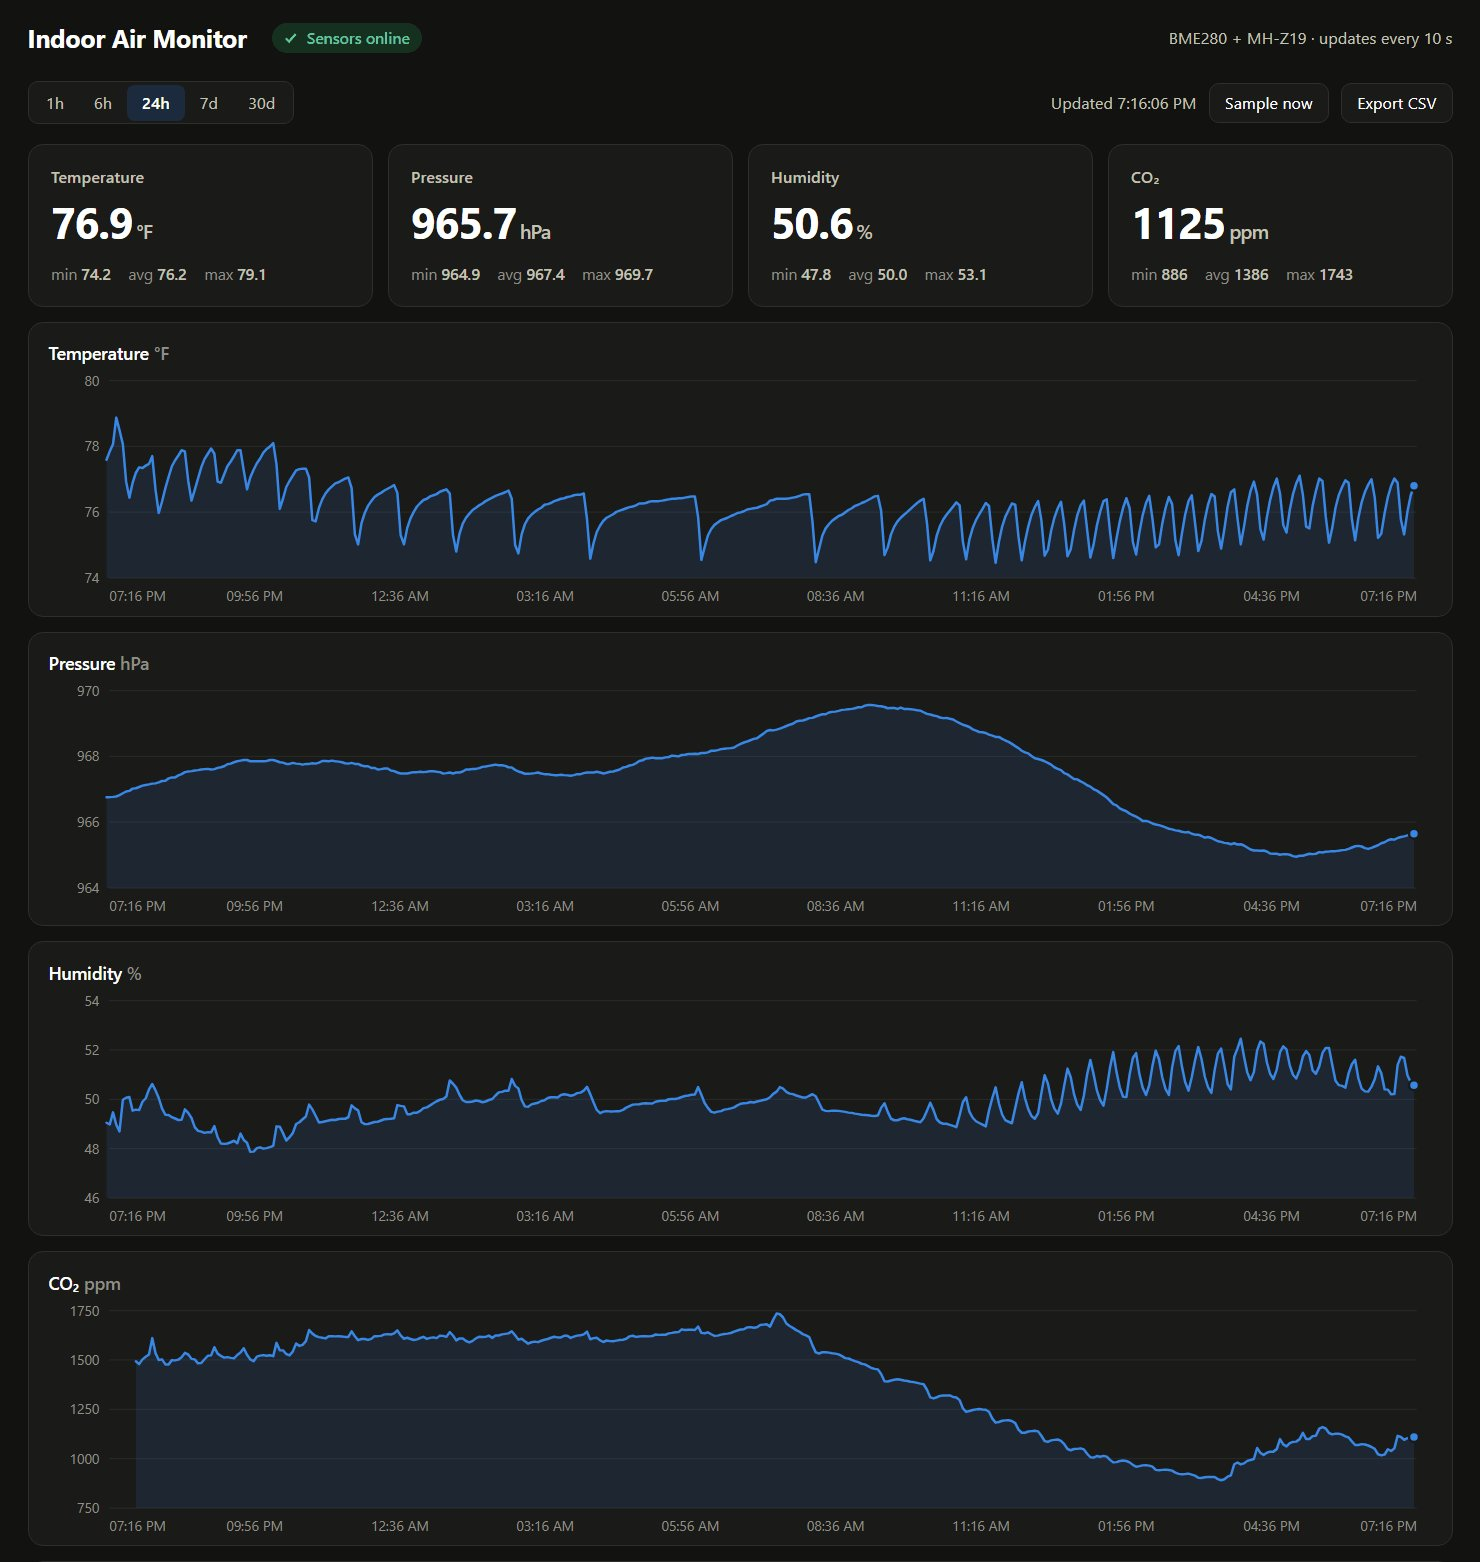
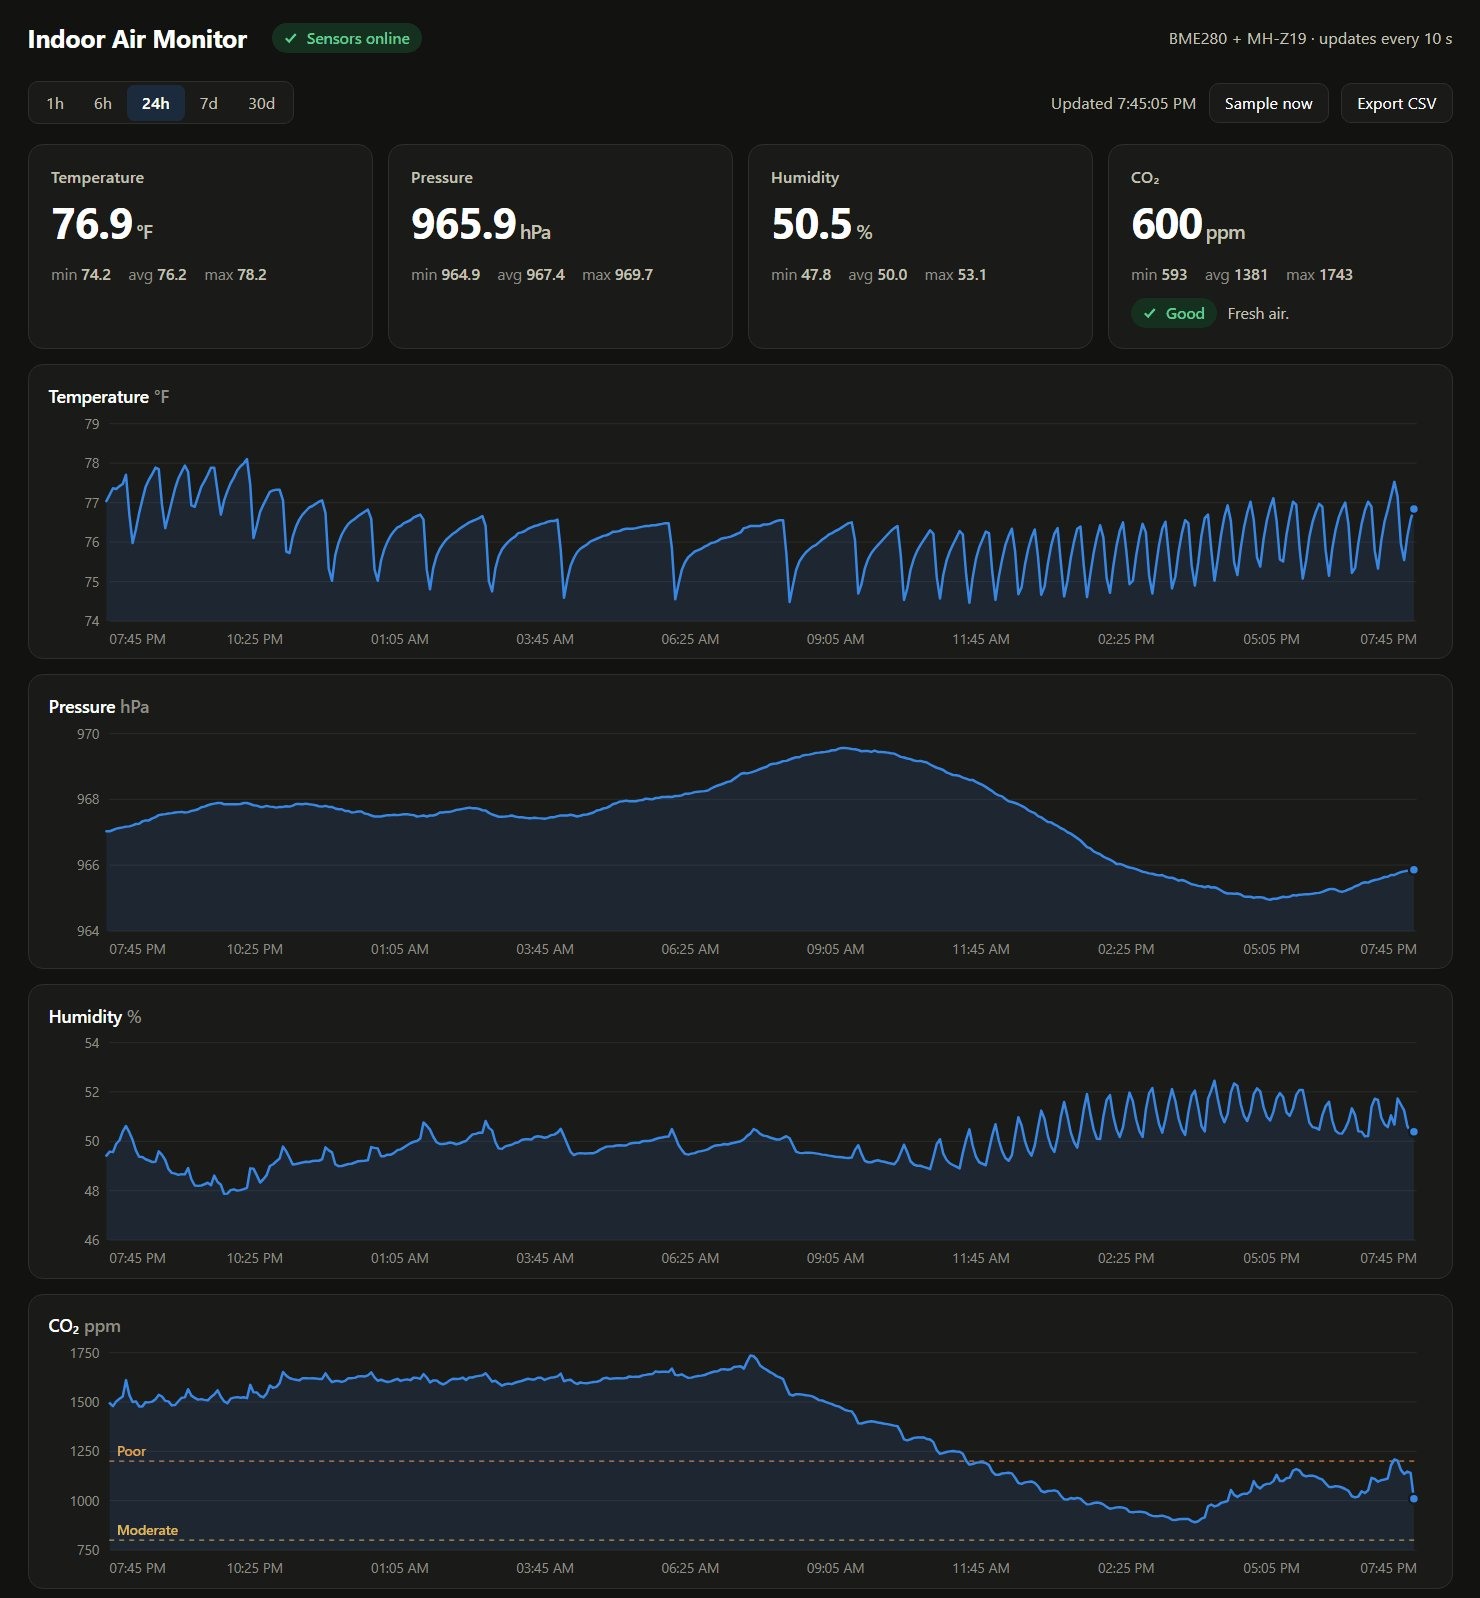
Add CO2 danger alerts to Pi Air Monitor project

diff --git a/index.html b/index.html
@@ -270,7 +270,7 @@
                         <h3>Pi Air Monitor</h3>
                         <p class="case-summary">
                             An indoor air-quality monitor: C drivers read a BME280 over SPI and an MH-Z19 CO₂ sensor over UART,
-                            and a FastAPI service stores the readings in PostgreSQL and serves a live dashboard with history and CSV export.
+                            and a FastAPI service stores the readings in PostgreSQL and serves a live dashboard with CO₂ danger alerts, history and CSV export.
                         </p>
                         <ol class="pipeline">
                             <li>BME280 + MH-Z19</li><li>SPI / UART</li><li>C drivers</li><li>FastAPI</li><li>PostgreSQL</li><li>Dashboard</li>
@@ -290,13 +290,33 @@
                                 <span class="dots"><i></i><i></i><i></i></span>
                                 <span class="browser-url"><i class="bx bx-chip"></i> raspberrypi:8000</span>
                             </div>
-                            <img src="img/air-monitor-dashboard.jpg" alt="Live dashboard charting temperature, pressure, humidity and CO₂ over 24 hours">
+                            <img src="img/air-monitor-dashboard.jpg" alt="Live dashboard charting temperature, pressure, humidity and CO₂ over 24 hours, with CO₂ thresholds marked">
                         </a>
                         <figure class="hw-photo">
                             <img src="img/air-monitor-hardware.jpg" alt="Raspberry Pi 5 wired to a BME280 sensor on a breadboard and an MH-Z19 CO₂ sensor">
                             <figcaption>The actual build</figcaption>
                         </figure>
                     </div>
+                </div>
+
+                <div class="case-feature">
+                    <div class="feature-text">
+                        <p class="project-kicker"><i class="bx bx-error"></i> New · CO₂ danger alerts</p>
+                        <h4>Know when to open a window</h4>
+                        <p>
+                            Every CO₂ reading is placed in one of five bands, from Good to Dangerous, based on published
+                            health guidance up to the OSHA 8-hour exposure limit. The dashboard labels the current band and
+                            draws the thresholds on the chart. At Unhealthy or above it raises a banner with advice and logs a warning.
+                        </p>
+                        <ol class="levels">
+                            <li class="lv-good">Good</li><li class="lv-moderate">800</li><li class="lv-poor">1200</li><li class="lv-unhealthy">2000</li><li class="lv-danger">5000 ppm</li>
+                        </ol>
+                        <p class="feature-note">Hysteresis: a level drops only once CO₂ is 50 ppm below the boundary, so readings near a threshold don't flicker.</p>
+                    </div>
+                    <figure class="feature-shot">
+                        <img src="img/air-monitor-alert.jpg" alt="Dashboard alert banner reading: CO₂ level Unhealthy since 7:38 PM. Headaches and drowsiness are likely. Ventilate now. The CO₂ tile shows 2295 ppm marked Unhealthy.">
+                        <figcaption>Alert state, shown with simulated readings</figcaption>
+                    </figure>
                 </div>
 
                 <ol class="case-highlights">

diff --git a/style.css b/style.css
@@ -766,6 +766,76 @@ main {
     object-position: top;
 }
 
+.case-feature {
+    display: grid;
+    grid-template-columns: minmax(0, 1fr) minmax(0, 1.25fr);
+    gap: 48px;
+    align-items: center;
+    padding: 40px 48px;
+    border-top: 1px solid var(--border);
+}
+
+.feature-text h4 {
+    font-size: 20px;
+    letter-spacing: -0.01em;
+    margin-bottom: 10px;
+}
+
+.feature-text > p:not(.project-kicker) {
+    color: var(--text-muted);
+    font-size: 15px;
+}
+
+.feature-text .feature-note {
+    font-size: 13px;
+    margin-top: 14px;
+}
+
+.levels {
+    list-style: none;
+    display: flex;
+    margin-top: 20px;
+    border-radius: 8px;
+    overflow: hidden;
+    font-family: var(--mono);
+    font-size: 11px;
+    font-weight: 500;
+}
+
+.levels li {
+    flex: 1;
+    padding: 6px 8px;
+    color: #0b0d10;
+    white-space: nowrap;
+}
+
+.levels li + li {
+    border-left: 2px solid var(--bg-elev);
+}
+
+.levels .lv-good { background: #4fd1a5; }
+.levels .lv-moderate { background: #e6c35c; }
+.levels .lv-poor { background: #f0a050; }
+.levels .lv-unhealthy { background: #ef6f62; }
+.levels .lv-danger { background: #c23b4b; color: #fff; flex: 1.3; }
+
+.feature-shot {
+    border: 1px solid var(--border);
+    border-radius: 12px;
+    overflow: hidden;
+    background: var(--bg-elev-2);
+    box-shadow: 0 24px 48px -20px rgba(0, 0, 0, 0.5);
+}
+
+.feature-shot figcaption {
+    font-family: var(--mono);
+    font-size: 11px;
+    color: var(--text-muted);
+    text-align: center;
+    padding: 8px;
+    border-top: 1px solid var(--border);
+}
+
 .case-highlights {
     list-style: none;
     display: grid;
@@ -925,6 +995,12 @@ main {
     .case-intro {
         padding: 32px 24px;
         gap: 32px;
+    }
+
+    .case-feature {
+        grid-template-columns: minmax(0, 1fr);
+        padding: 32px 24px;
+        gap: 28px;
     }
 
     .case-highlights li {
